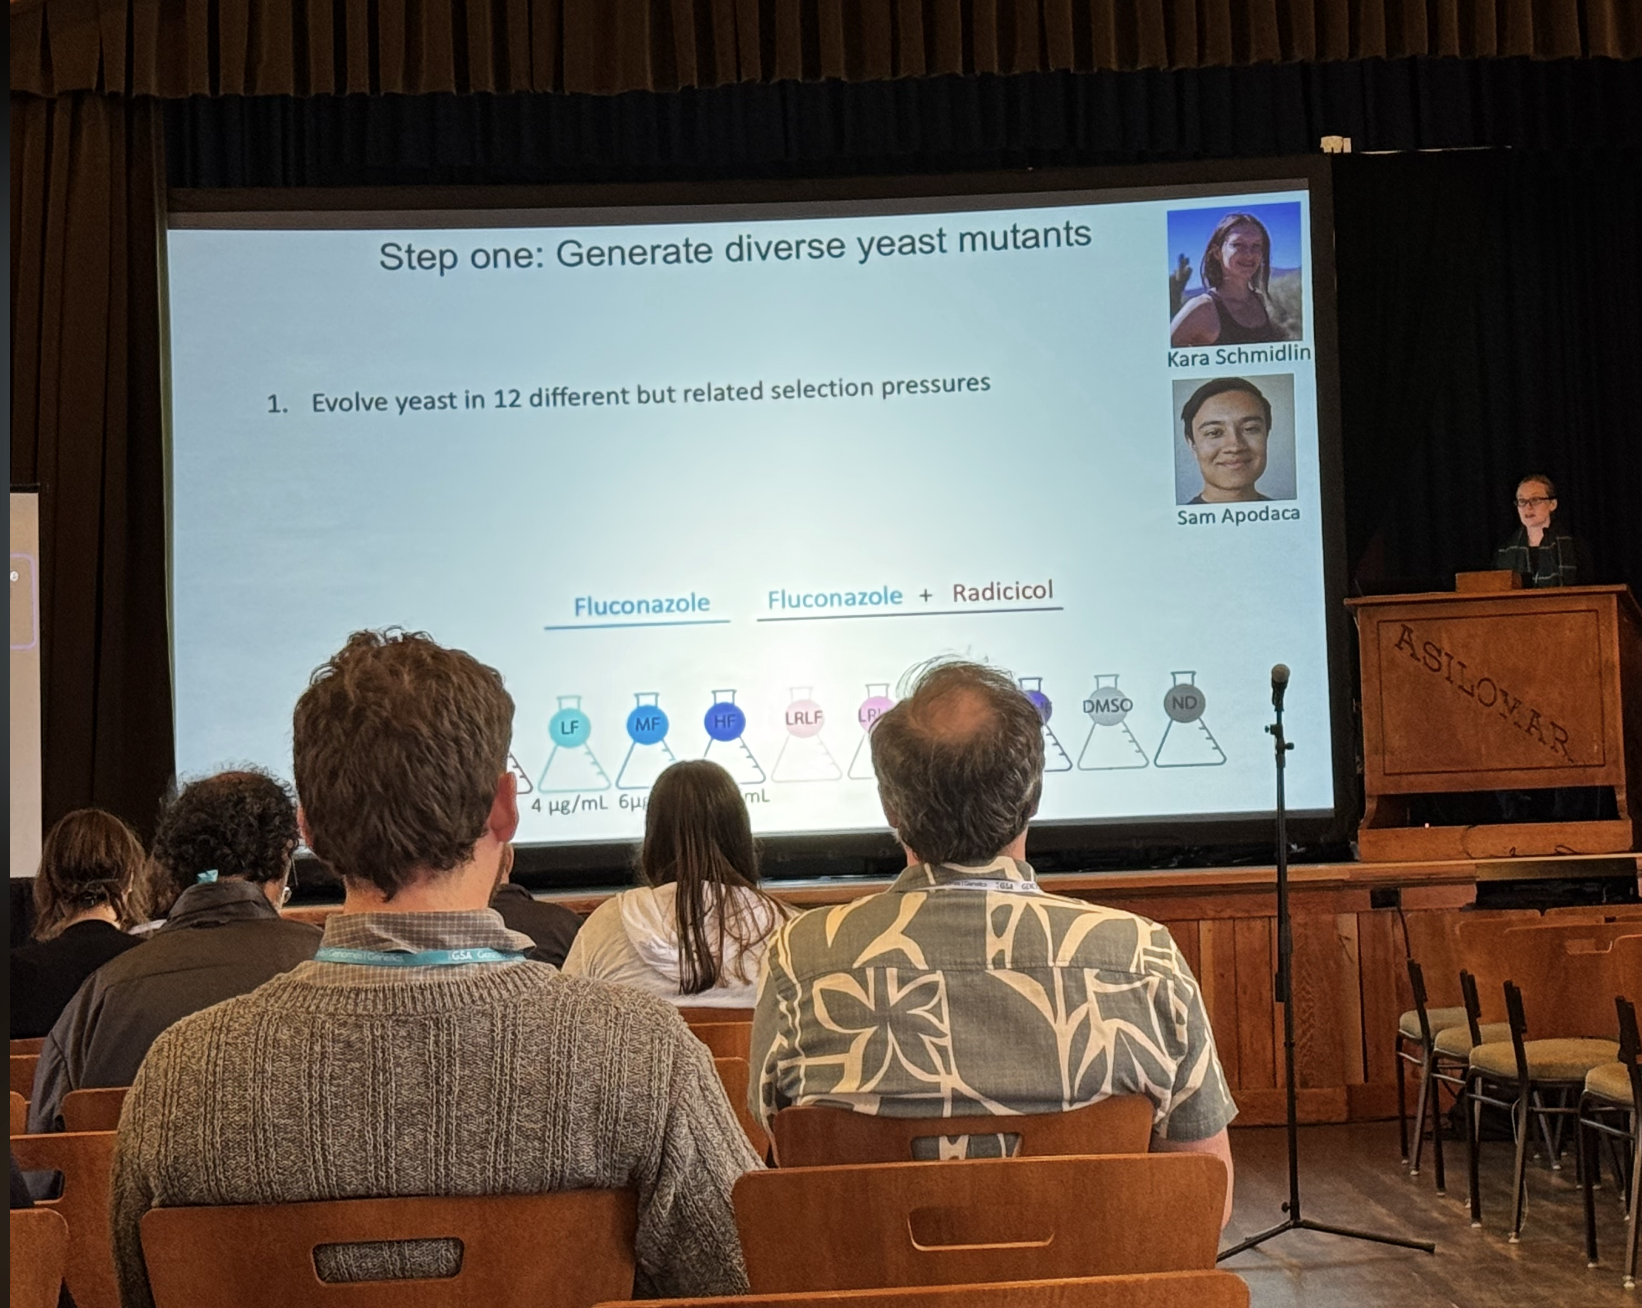
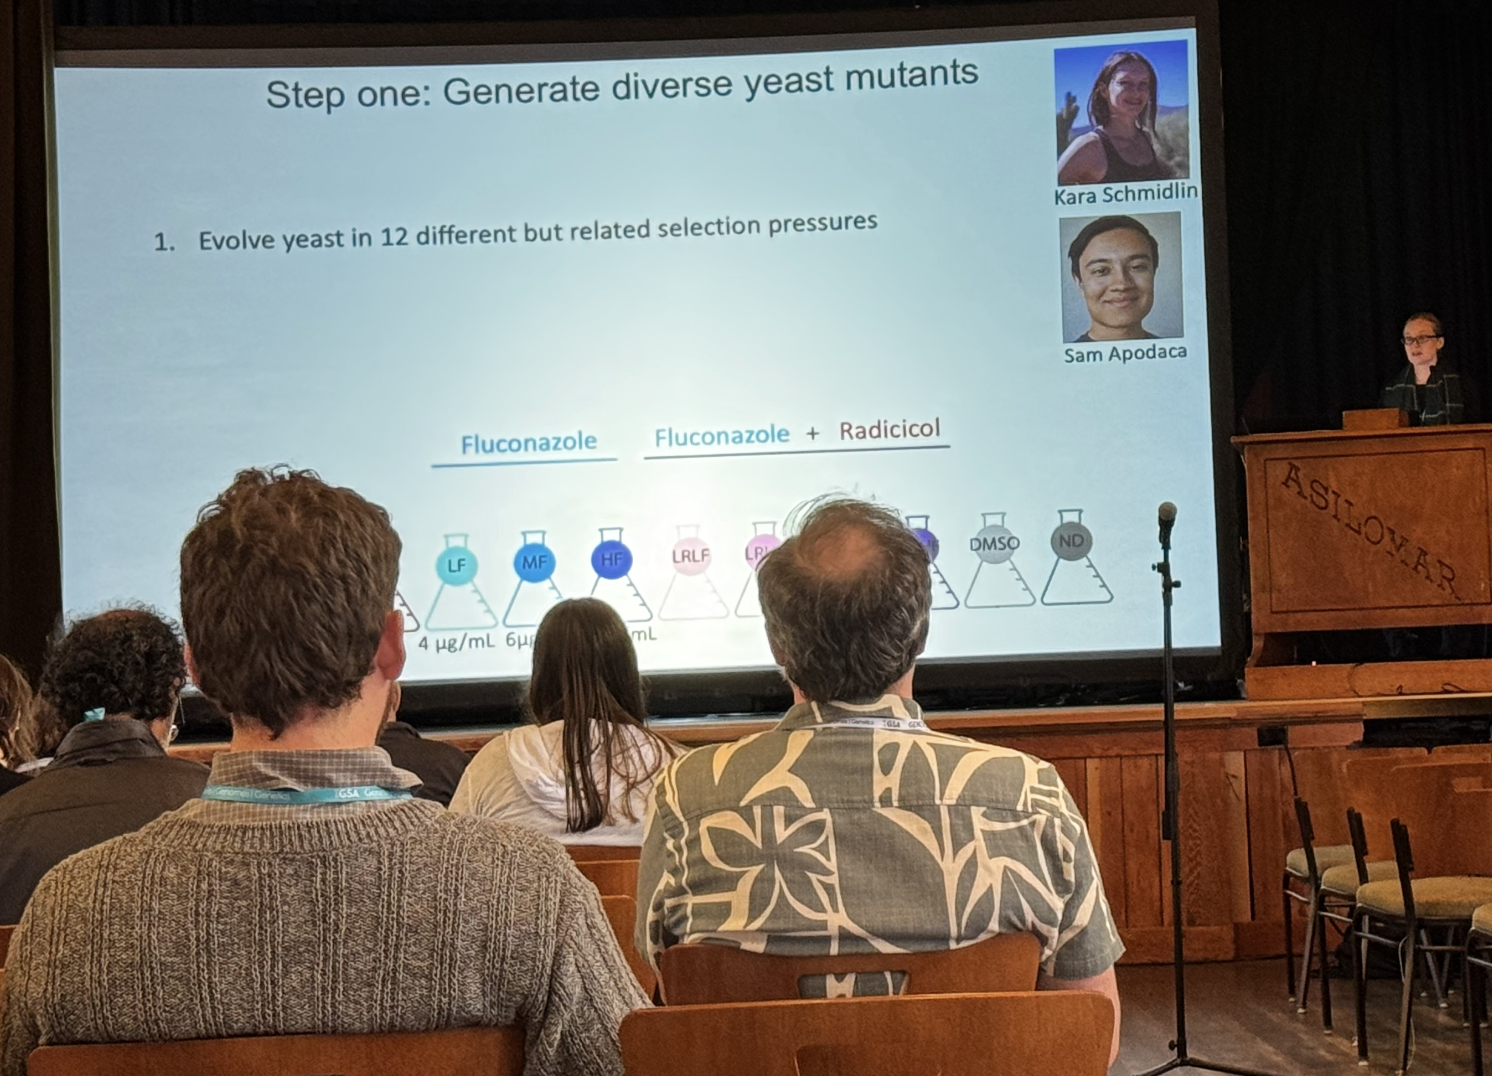
fixes minro

diff --git a/news/_posts/2026-06-03-Rules.md b/news/_posts/2026-06-03-Rules.md
@@ -1,6 +1,6 @@
 ---
 layout: news
-title: "KGS lab attends 'Rules of the Game' Workshop in Lisbon, Portugal"
+title: "KGS lab attends Rules of the Game Workshop in Lisbon, Portugal"
 author: "Kerry"
 author_handle: 
 image: /assets/images/news/Game.png
